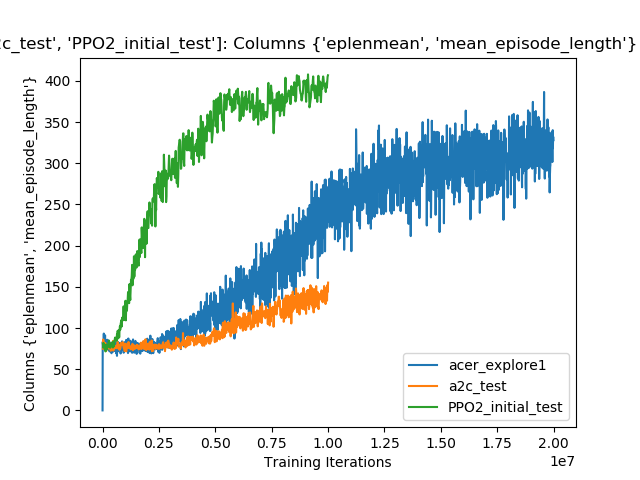
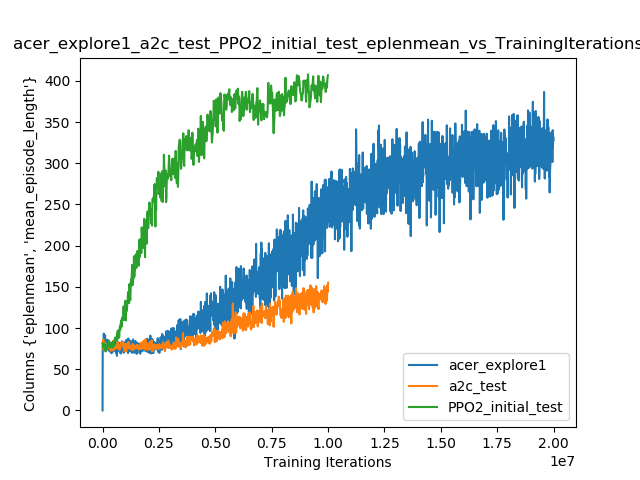
updated plotting code

Changed region(s): [[0.0, 0.0625, 1.0, 0.125]]

diff --git a/plot.py b/plot.py
@@ -178,7 +178,11 @@ def plot_diff_models(model_names, columns=[0], save=False, show=True, save_dir =
         plt.legend(loc='best')
         plt.ylabel("Columns " + str(col_names))
         plt.xlabel("Training Iterations")
-        title = str(model_names) + ": Columns " + str(col_names) + " vs. Training Iterations"
+        title = ""
+        for model_name in model_names:
+            title += model_name + "_"
+        title += list(col_names)[0]
+        title += "_vs_TrainingIterations"
         plt.title(title)
         if save:
             file_name = title
@@ -197,7 +201,7 @@ def plot_diff_models(model_names, columns=[0], save=False, show=True, save_dir =
                 y = ys[model_name]
                 plt.ylabel("Column " + col_name)
                 plt.xlabel("Training Iterations")
-                title = model_name + ": " + col_name + " vs. Training Iterations"
+                title = model_name + "_" + col_name + "_vs_TrainingIterations"
                 plt.title(title)
                 plt.plot(X, y)
                 if save:
